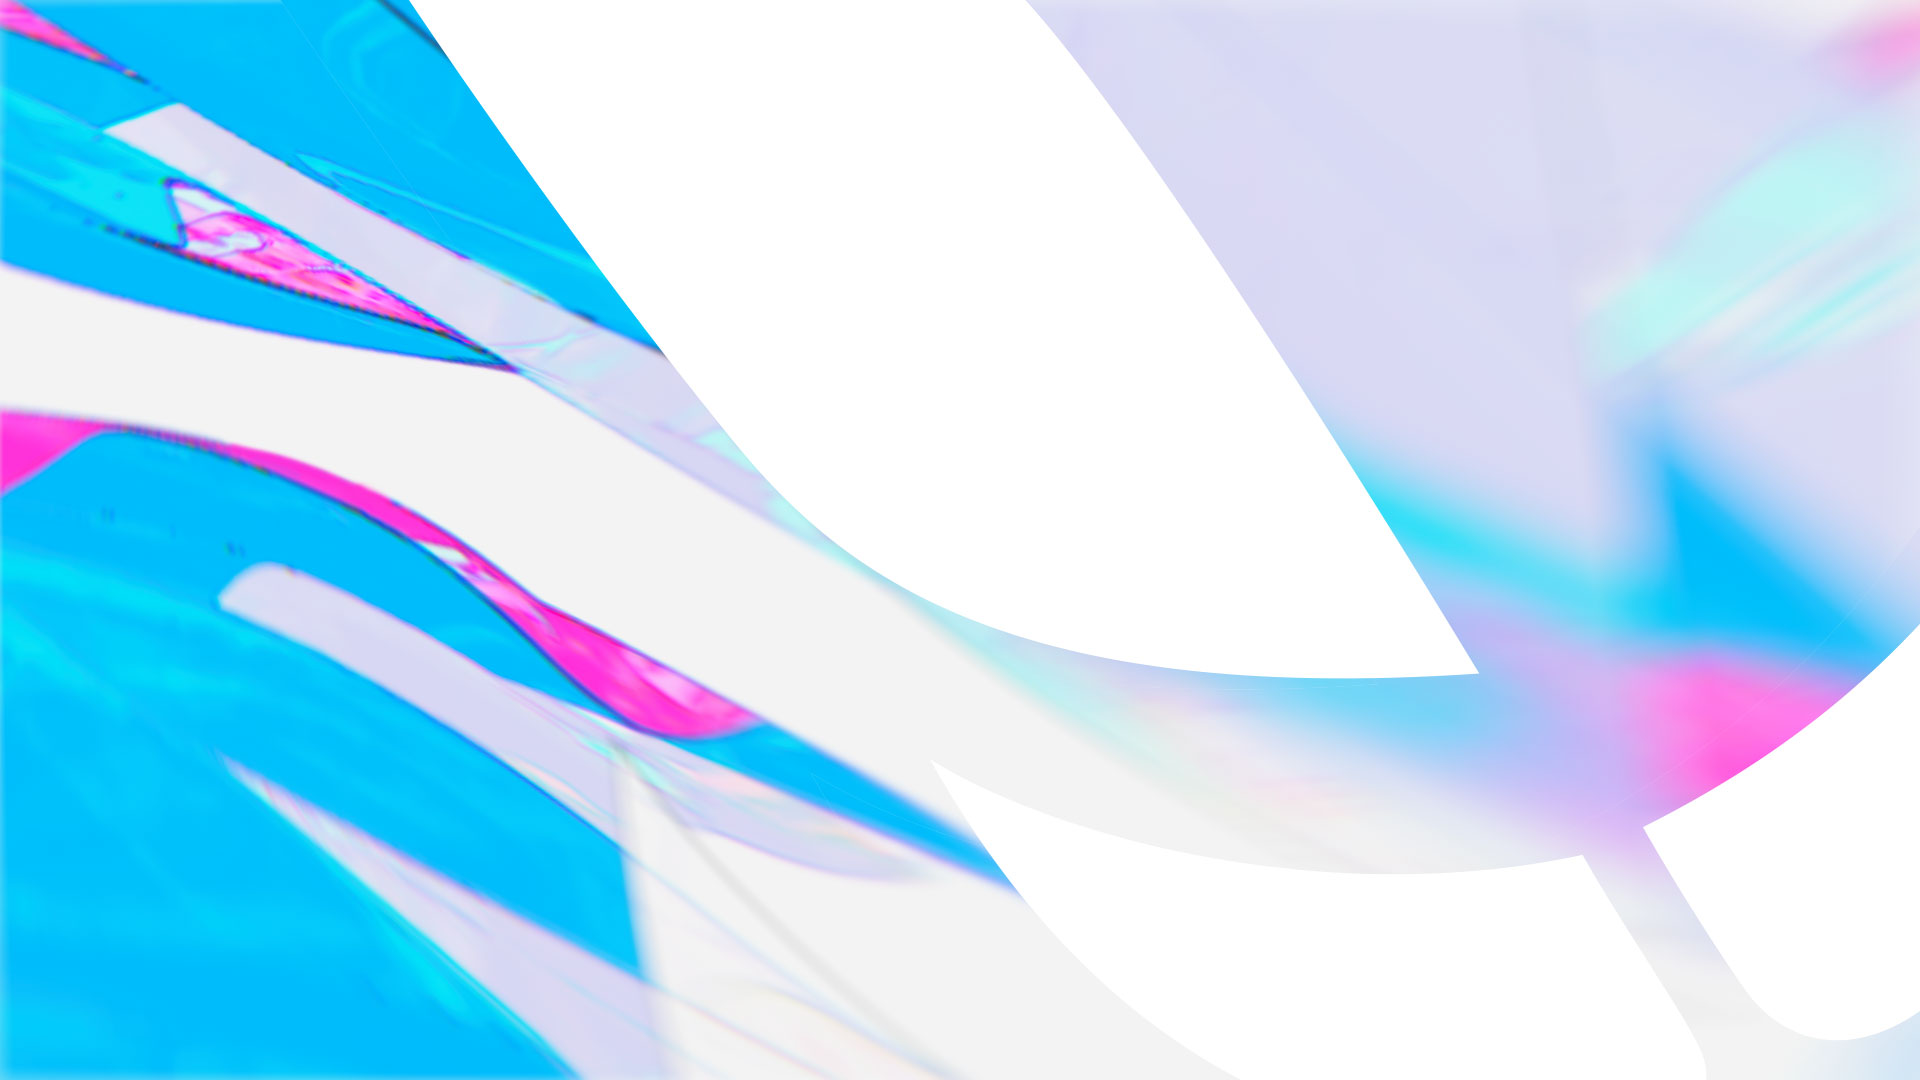
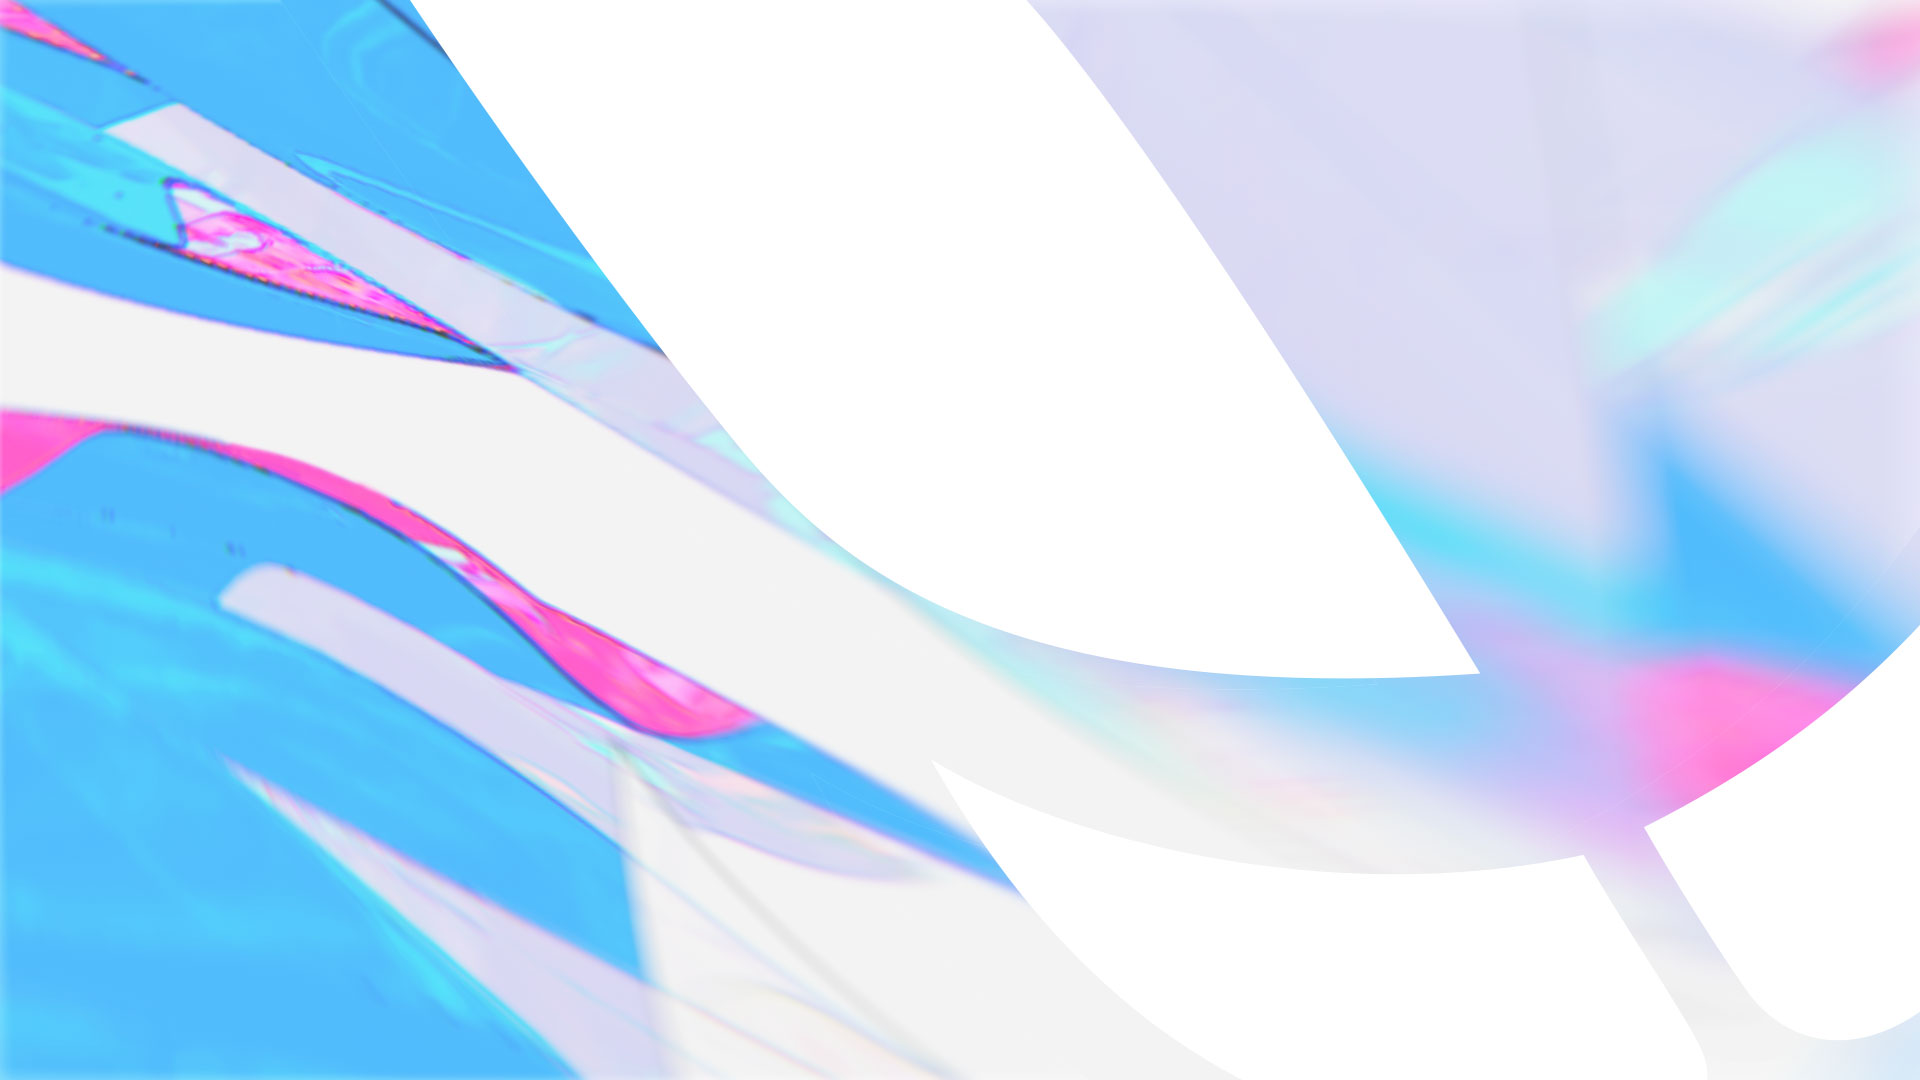
kansei index

diff --git a/assets/css/index/phone.css b/assets/css/index/phone.css
@@ -109,8 +109,8 @@
 		background-position: center;
 		background-size: contain;
 		color: #595757;
-		padding-left: 5%;
-		padding-right: 5%;
+		padding-left: 10%;
+		padding-right: 10%;
 		margin-bottom: 3rem;
 	}
 
@@ -139,7 +139,7 @@
 		padding-left: 5%;
 		padding-right: 5%;
 		color: #595757;
-		background-image: url("../../../assets/img/top_06.png");
+		background-image: url("../../../assets/img/top_06.jpg");
 		background-repeat: no-repeat;
 		background-position: bottom;
 		background-size: 100% auto;
@@ -181,17 +181,24 @@
 		font-weight: bold;
 		margin-bottom: 1rem;
 		text-transform: capitalize;
-		margin-bottom: 1.5rem;
 	}
 
 	.main {
 		font-size: 1.8rem;
-		font-weight: 900;
+		font-weight: 700;
+		margin-bottom: 1.5rem;
+	}
+
+	.time {
+		margin-bottom: 0;
+	}
+	
+	.kaijyou {
+		margin-bottom: 2rem !important;
 	}
 
 	.sub {
 		font-weight: bold;
-		margin-top: 0.8rem;
 		margin-bottom: 1rem;
 		color: #666666;
 	}

diff --git a/pages/index.vue b/pages/index.vue
@@ -64,8 +64,8 @@
 		        </li>
 		        <li>
 							<p class="sub-title">time</p>
-							<p class="main">9:00–15:30</p>
-							<p class="sub">開場 9:00</p>
+							<p class="main time">9:00–15:30</p>
+							<p class="sub kaijyou">開場 9:00</p>
 		        </li>
 		      </ul>
 			  </div>
@@ -82,9 +82,6 @@
 							<div class="line">
 								<a href="https://twitter.com/Nada_festival" target="_blank" rel="noopener" class="main">Twitter</a>
 			        </div>
-							<div class="line">
-								<a href="https://www.instagram.com/nadafestival_official/" target="_blank" rel="noopener" class="main">Instagram</a>
-							</div>
 							<div class="line">
 								<a href="https://www.facebook.com/NadaSchoolFestival/" target="_blank" rel="noopener" class="main">Facebook</a>
 							</div>

diff --git a/assets/css/index/pc.css b/assets/css/index/pc.css
@@ -27,7 +27,7 @@
 	.wrap-image {
 		grid-column: 23 span;
 		height: 100vh;
-		background-image: url("../../../assets/img/top_05.png");
+		background-image: url("../../../assets/img/top_07.jpg");
 		background-repeat: no-repeat;
 		background-position: left center;
 		background-size: cover;
@@ -154,7 +154,7 @@
 		grid-column: 23 span;
 		padding-left: 10%;
 		color: #595757;
-		background-image: url("../../../assets/img/top_06.png");
+		background-image: url("../../../assets/img/top_06.jpg");
 		background-size: 100% auto;
 	}
 
